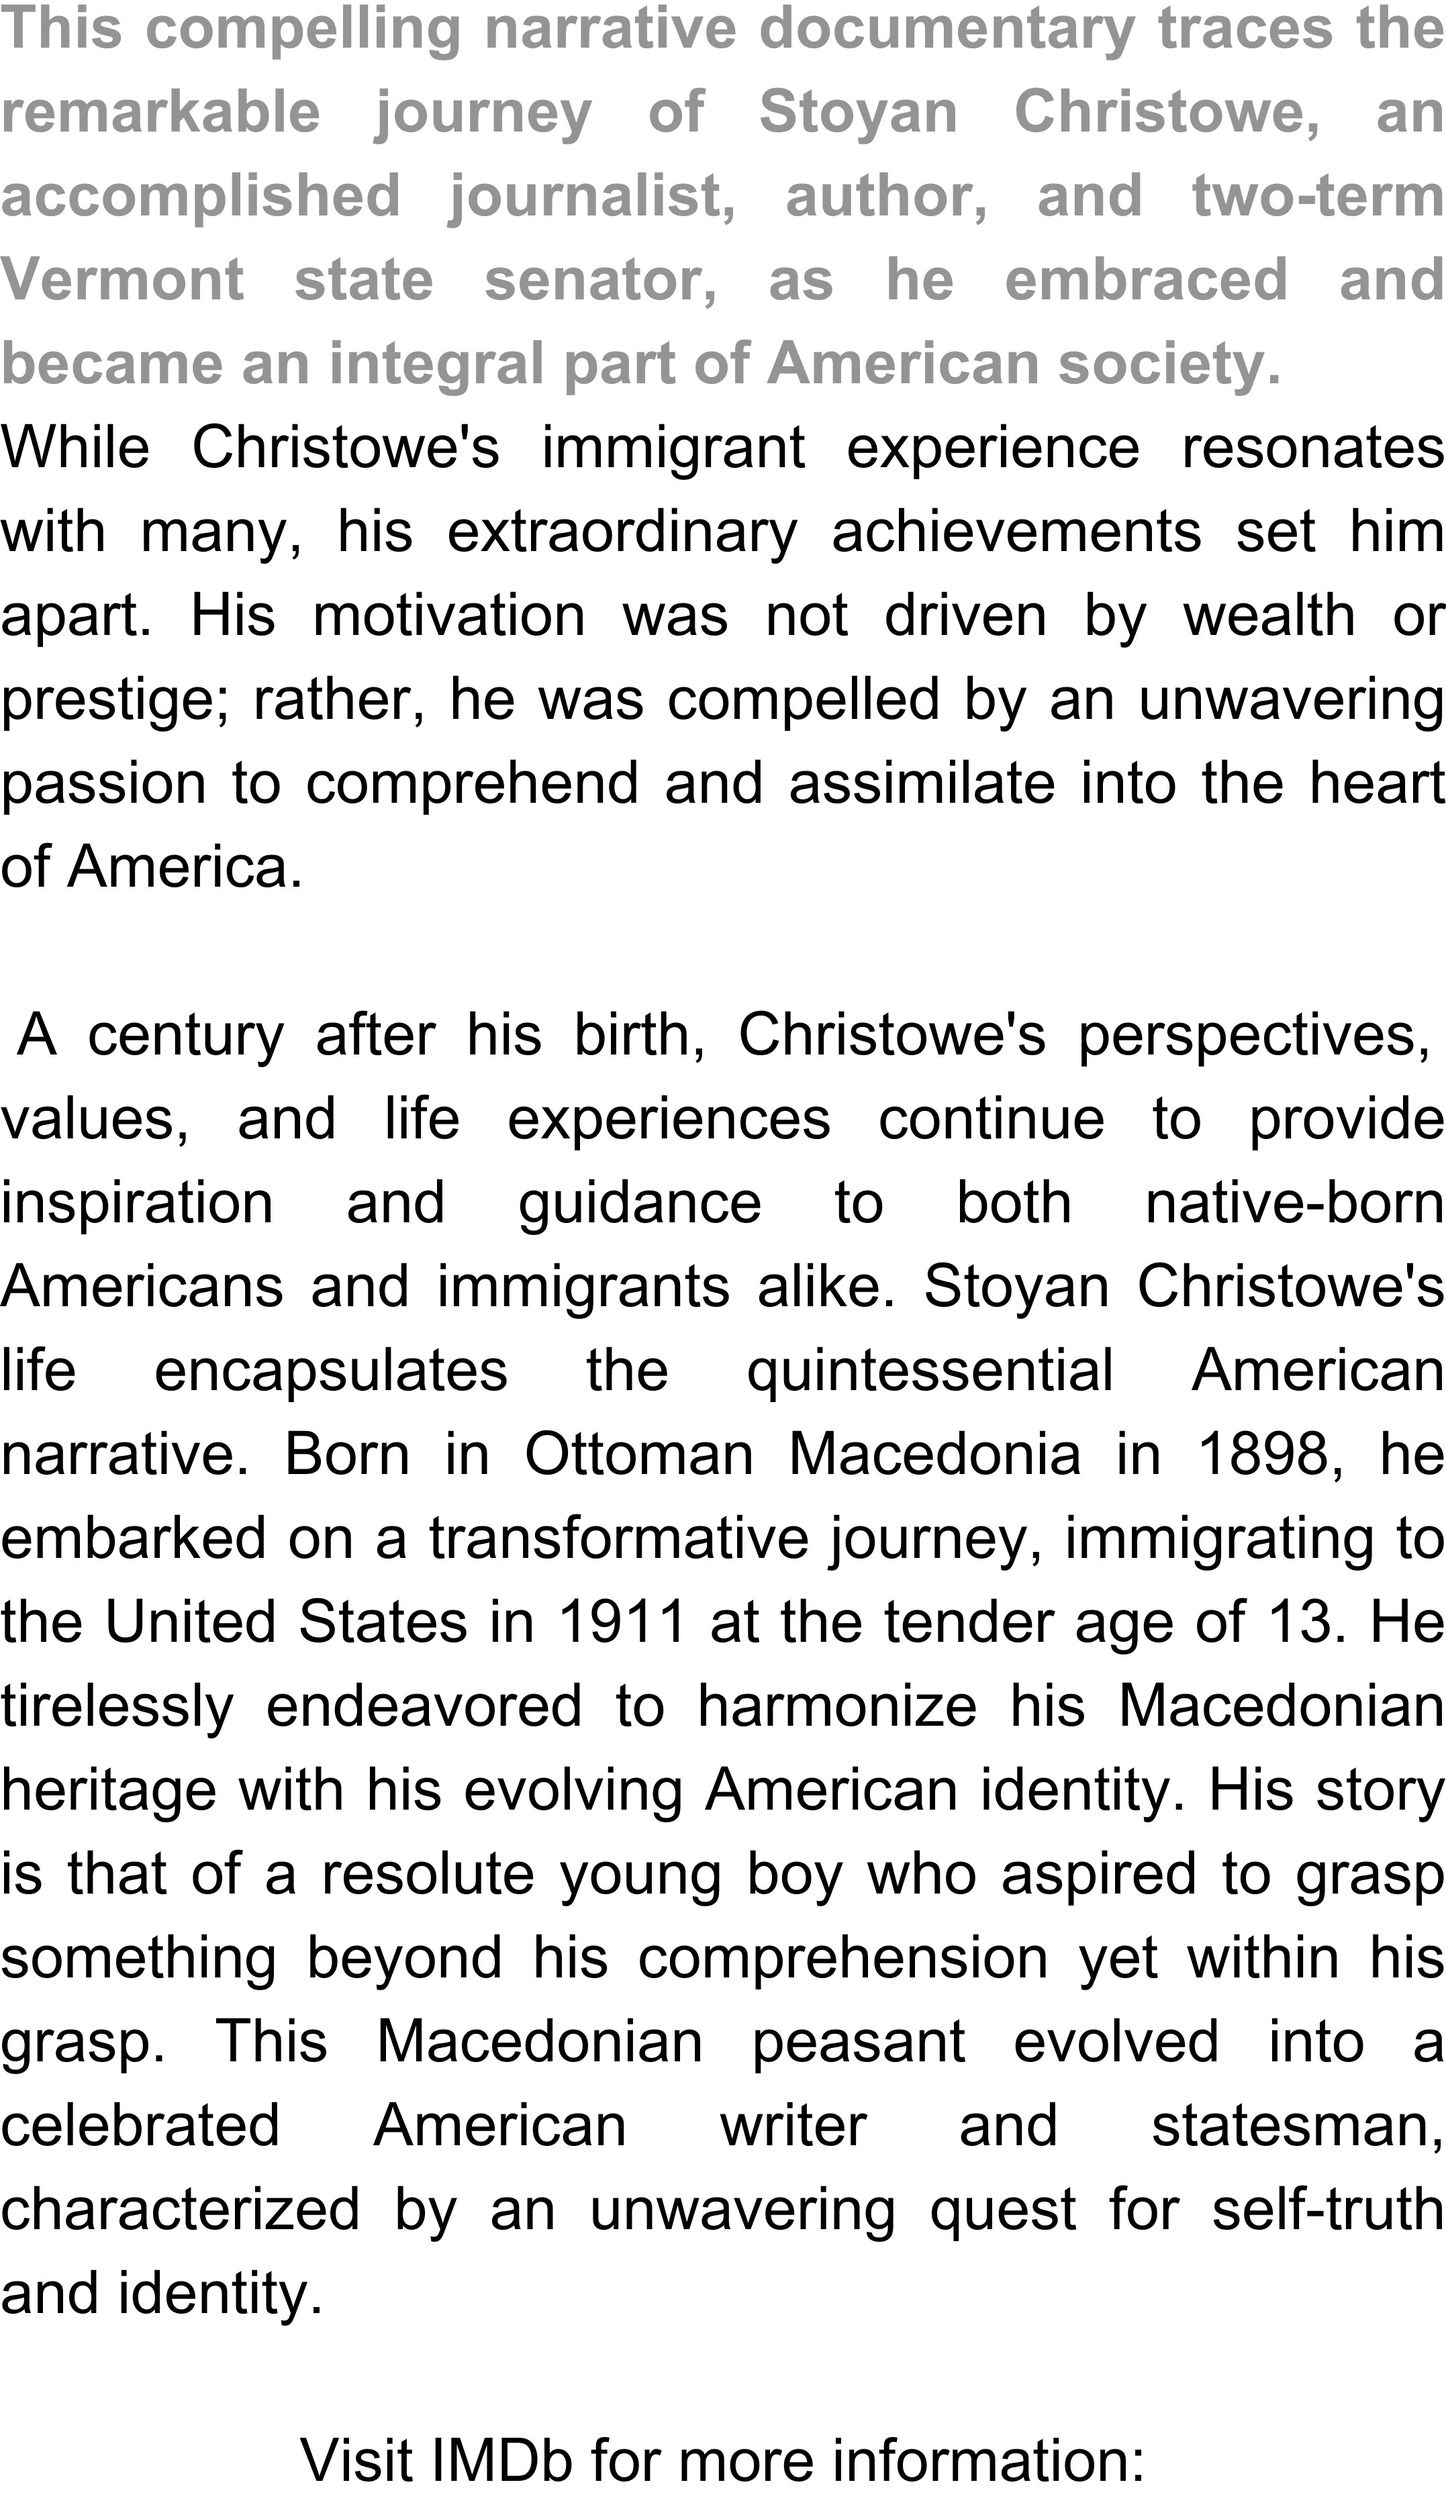
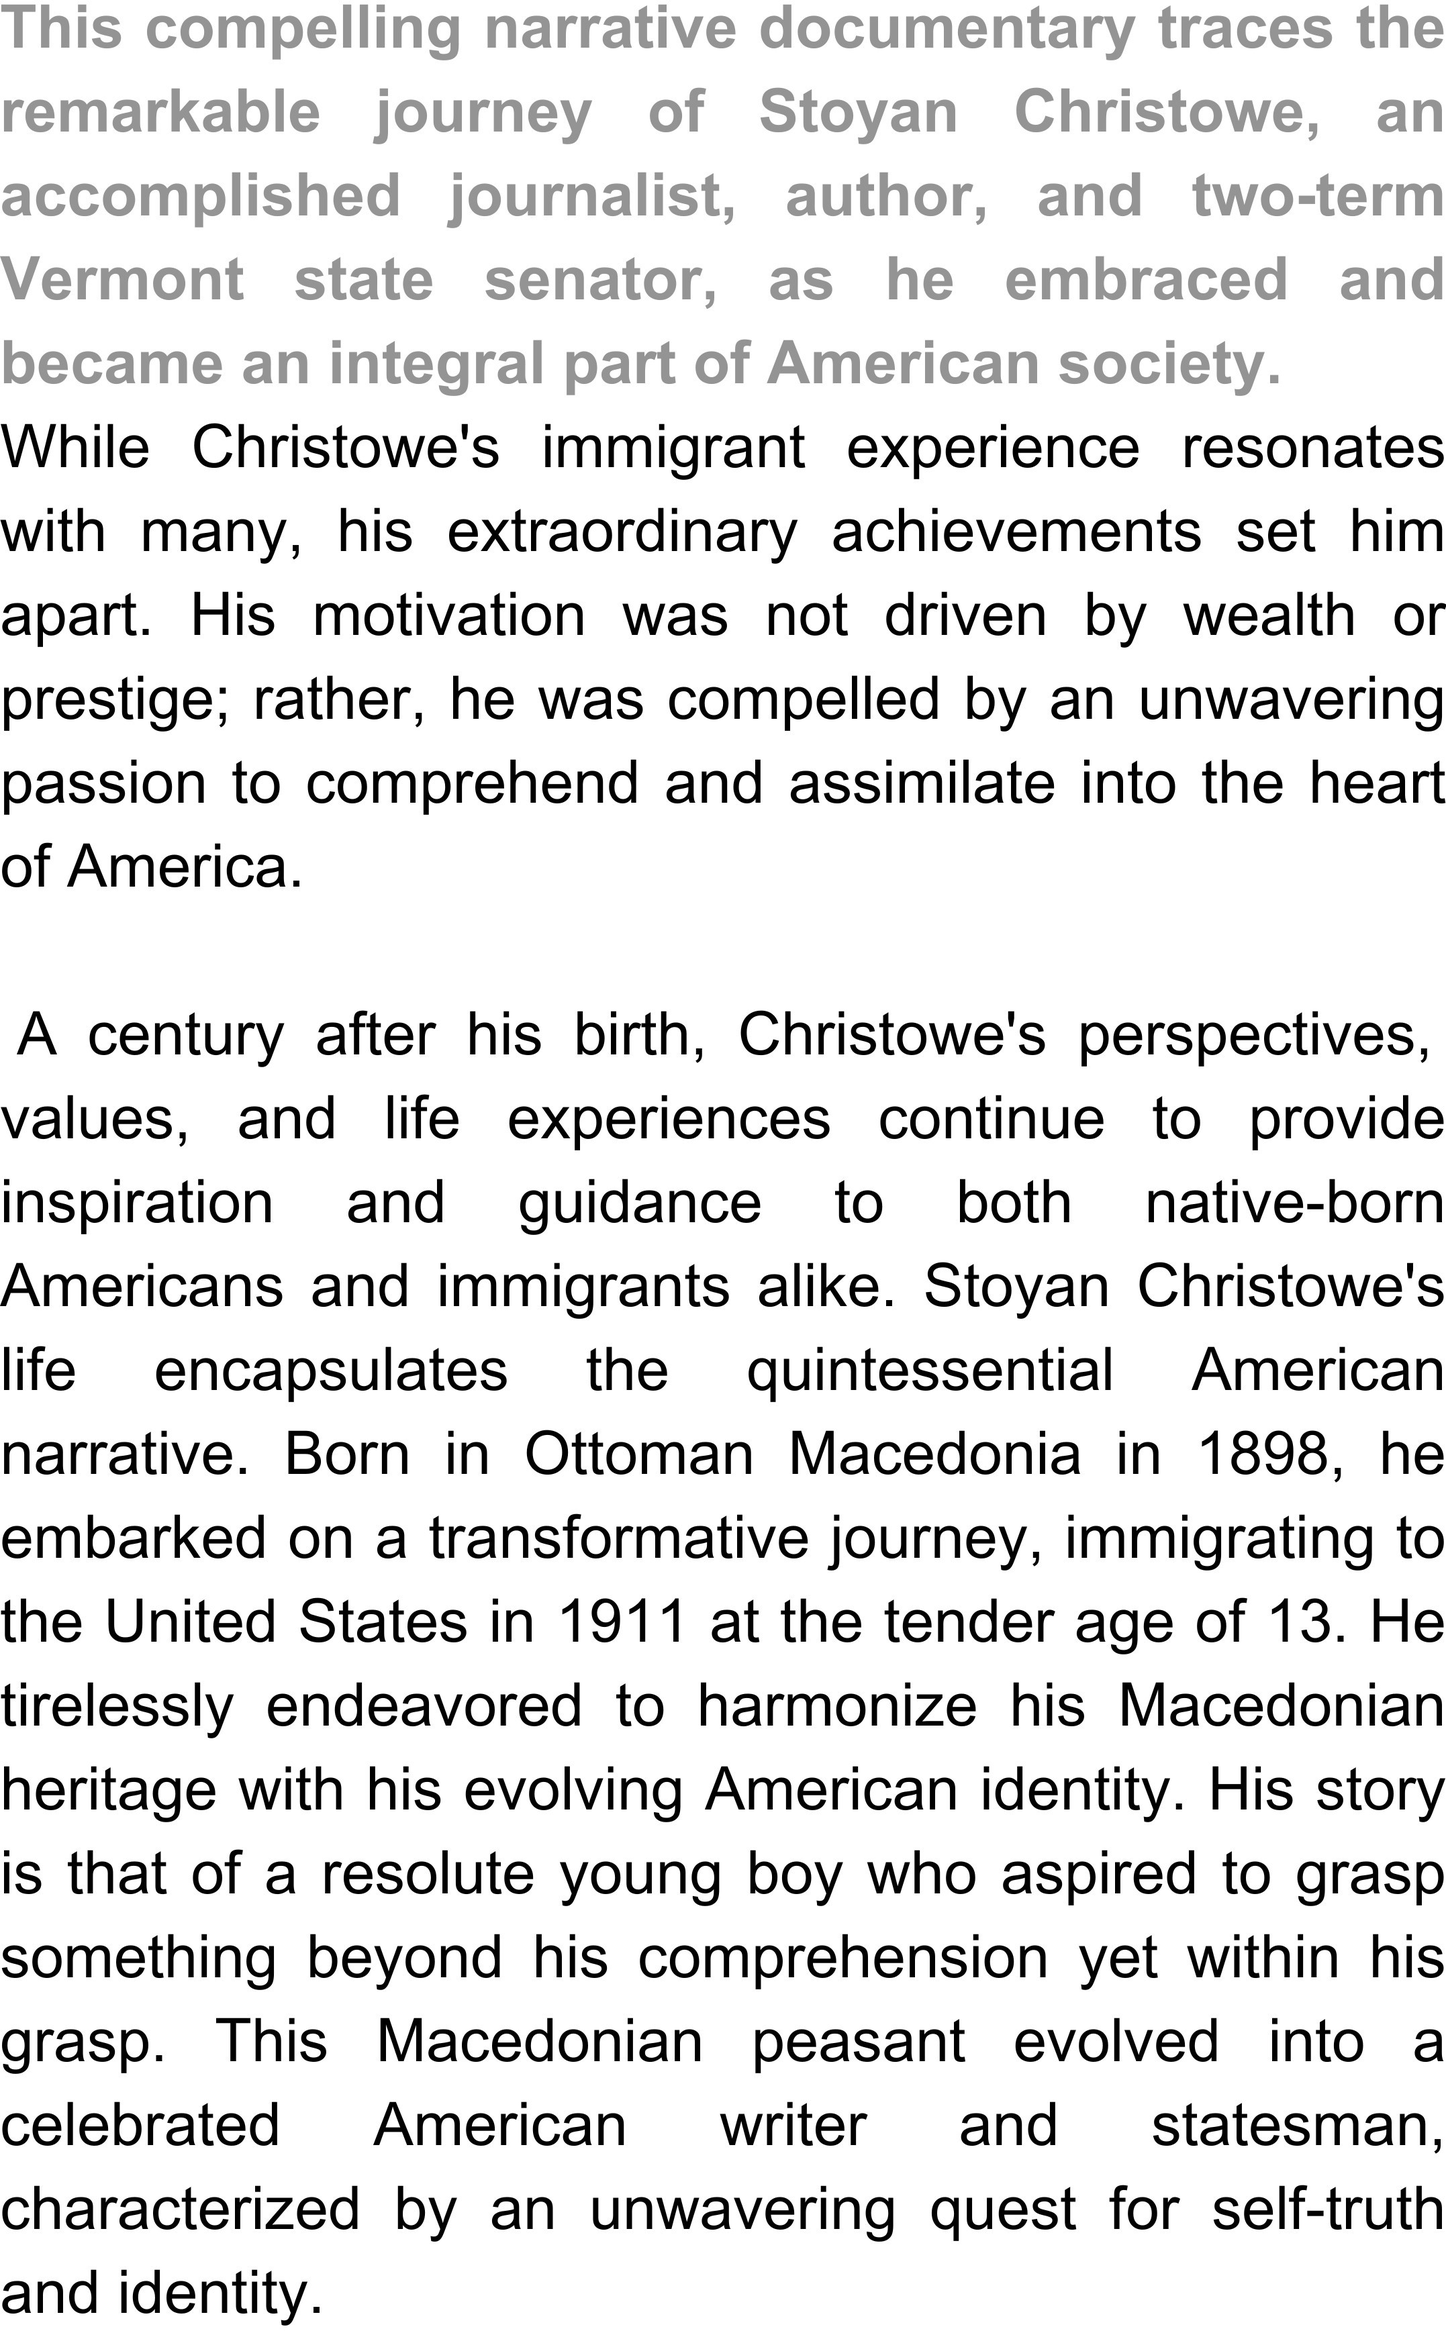
Update Text and Video page

diff --git a/projects.html b/projects.html
@@ -254,8 +254,8 @@
 									/>
 									<div class="card-body">
 										<p class="card-text" style="text-align: justify;">
-											The songs in <strong><em>PARTINGS</em></strong> are original Macedonian immigrant folk songs reinterpreted in modern arrangements for
-											world audiences.
+											<strong><em>PARTINGS</em></strong> displays original Macedonian folk songs 
+											reinterpreted in modern arrangements for world audiences.
 											<br>
 											<q style="color: rgb(213,115,46)">
 													<em>...Leaving their wives and youngsters behind and
@@ -268,14 +268,12 @@
 													children...</em>
 												</q>
 												<br>
-											For thousands of men of Macedonia, this life was reality, and Partings tells their
+											For thousands of men of Macedonia, this life was reality. Partings tells their
 											stories through the musical interpretations of amazing contemporary musicians from countries like India,
 											Wales, Germany, Norway and Ecuador. Many of these artists chose to include instruments from their
 											native land, melding Macedonian musical culture into their own.
 										</p>
-										<br style="line-height:210px;">
-										<br>
-										<br>
+										<br style="line-height:205px;">
 
 										<div style="text-align: center;">
 											<a
@@ -301,16 +299,16 @@
 									/>
 									<div class="card-body">
 										<p class="card-text" style="text-align: justify;">
-											<strong><em>LILTS</em></strong> is the second in a tryptic of musical albums that presents Macedonian folk music in modern arrangements.
+											<strong><em>LILTS</em></strong> presents Macedonian folk music in modern arrangements.
 											<br>
 											<q style="color: rgb(213,115,46)">
-													<em>She sits by the see and lulls her son... She calls out the son from Salonika to shine upon her new born so he grows big and strong. She dreams   for her baby to become a hero who frees his homeland... She wants him to revenge his father who dies for the fatherland.</em>
+												<em>She sits by the see and lulls her son... She calls out the son from Salonika to shine upon her new born so he grows big and strong. She dreams   for her baby to become a hero who frees his homeland... She wants him to revenge his father who dies for the fatherland.</em>
 												</q>
 											<br />
-											This title  song for LILTS not  only preserves the  oral history of the land but it also records the geography of its musical origin.
-											The unassuming lyrics of these lullabies and the original melodies were recorded acapella, in villages throughout Macedonia, and
-											have been the basis for the new arrangements which combine lyrics in Macedonian and the native
-											language of the arranger/composer. The collaborators for this album come from Italy, Sardinia, the UK,
+											This title song not only preserves the oral history of the land but also records the geography of its musical origin.
+											The unassuming lyrics of these lullabies and the original melodies were recorded acapella in Macedonian villages.
+											They have been the basis for the new arrangements which combine lyrics in Macedonian and the native
+											language of the arranger. The collaborators for this album come from Italy, Sardinia, the UK,
 											France, Sweden, the US and Japan. <br>
 											Slated for release at end of summer, 2024.
 											<br>
@@ -356,9 +354,9 @@
 											
 											<br />
 
-											In this album, we will hear the lament of a 22-year-old maid, empathize with her when she is abused by her alcoholic husband, 
-											cry with her when she loses her husband to tuberculosis, 
-											and laugh with her when she loses her handkerchief and can’t get it back without kissing the young man who found it.
+											In this album, we will hear the lament of a 22-year-old maid, empathize when she is abused by her alcoholic husband, 
+											cry when she loses her husband to tuberculosis, 
+											and laugh when she loses her handkerchief and can’t get it back without kissing the young man who found it.
 						
 										</p>
 										<iframe width="100%" height="166" scrolling="no" frameborder="no" allow="autoplay" src="https://w.soundcloud.com/player/?url=https%3A//api.soundcloud.com/tracks/378401378&color=%23ff5500&auto_play=false&hide_related=false&show_comments=true&show_user=true&show_reposts=false&show_teaser=true"></iframe><div style="font-size: 10px; color: #cccccc;line-break: anywhere;word-break: normal;overflow: hidden;white-space: nowrap;text-overflow: ellipsis; font-family: Interstate,Lucida Grande,Lucida Sans Unicode,Lucida Sans,Garuda,Verdana,Tahoma,sans-serif;font-weight: 100;"><a href="https://soundcloud.com/user-636245891" title="MAC" target="_blank" style="color: #cccccc; text-decoration: none;">MAC</a> · <a href="https://soundcloud.com/user-636245891/in-distress-working-demo" title="IN  DISTRESS - WORKING DEMO" target="_blank" style="color: #cccccc; text-decoration: none;">IN  DISTRESS - WORKING DEMO</a></div>										<p></p>

diff --git a/video.html b/video.html
@@ -257,13 +257,7 @@
 									width="100%"
 								/>
 								<br>
-								<div class="fs-5 ml-3 mr-3 " style="text-align: center;" >
-									<br>
-									<a href="https://www.imdb.com/title/tt5062018/?ref_=tt_mv_close" class="imdb-link" style="font-size: 38px;">IMDb</a>
-								</div>
-								
 							</div>							
-								
 						</div>
 					</div>
 				</div>
@@ -271,6 +265,12 @@
 
 			<section>
 				<div class="container px-2 mt-4">
+					<div class="fs-5 ml-3 mr-3 " style="text-align: center;" >
+									<br>
+									<h4> Visit IMDb for more information:</h4>
+									<a href="https://www.imdb.com/title/tt5062018/?ref_=tt_mv_close" class="imdb-link" style="font-size: 38px;">IMDb</a>
+								</div>
+								<br>
 					<div class="row">
 						<div
 							class="col d-flex flex-column align-center text-center map-quote"
@@ -289,13 +289,11 @@
 									"
 								>
 									<q>In my life I had two mothers: Macedonia who gave me birth, 
-										<br /> and America who adopted me.</q><span class="font-italic font-weight-lighter h5 mt-1">
+										<br /> and America who adopted me.</q>
+										<span class="font-italic font-weight-lighter h5 mt-1">
 											- Stoyan Christowe
 										</span>
-								</p>
-							
-
-							
+								</p>							
 							</div>
 							<hr
 								class="line"
